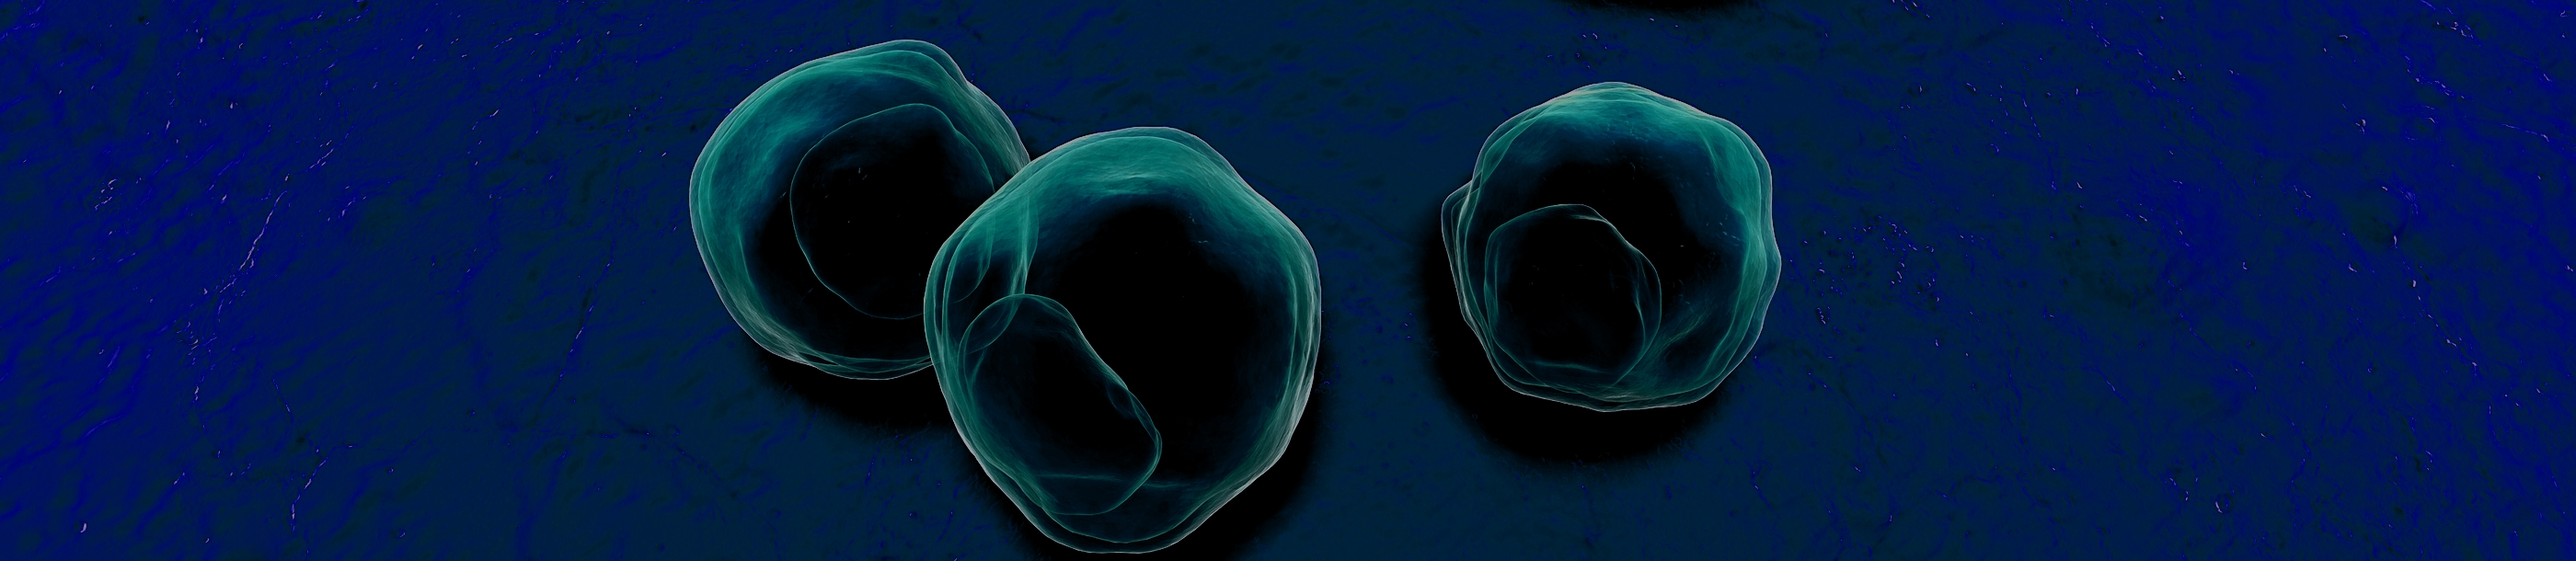
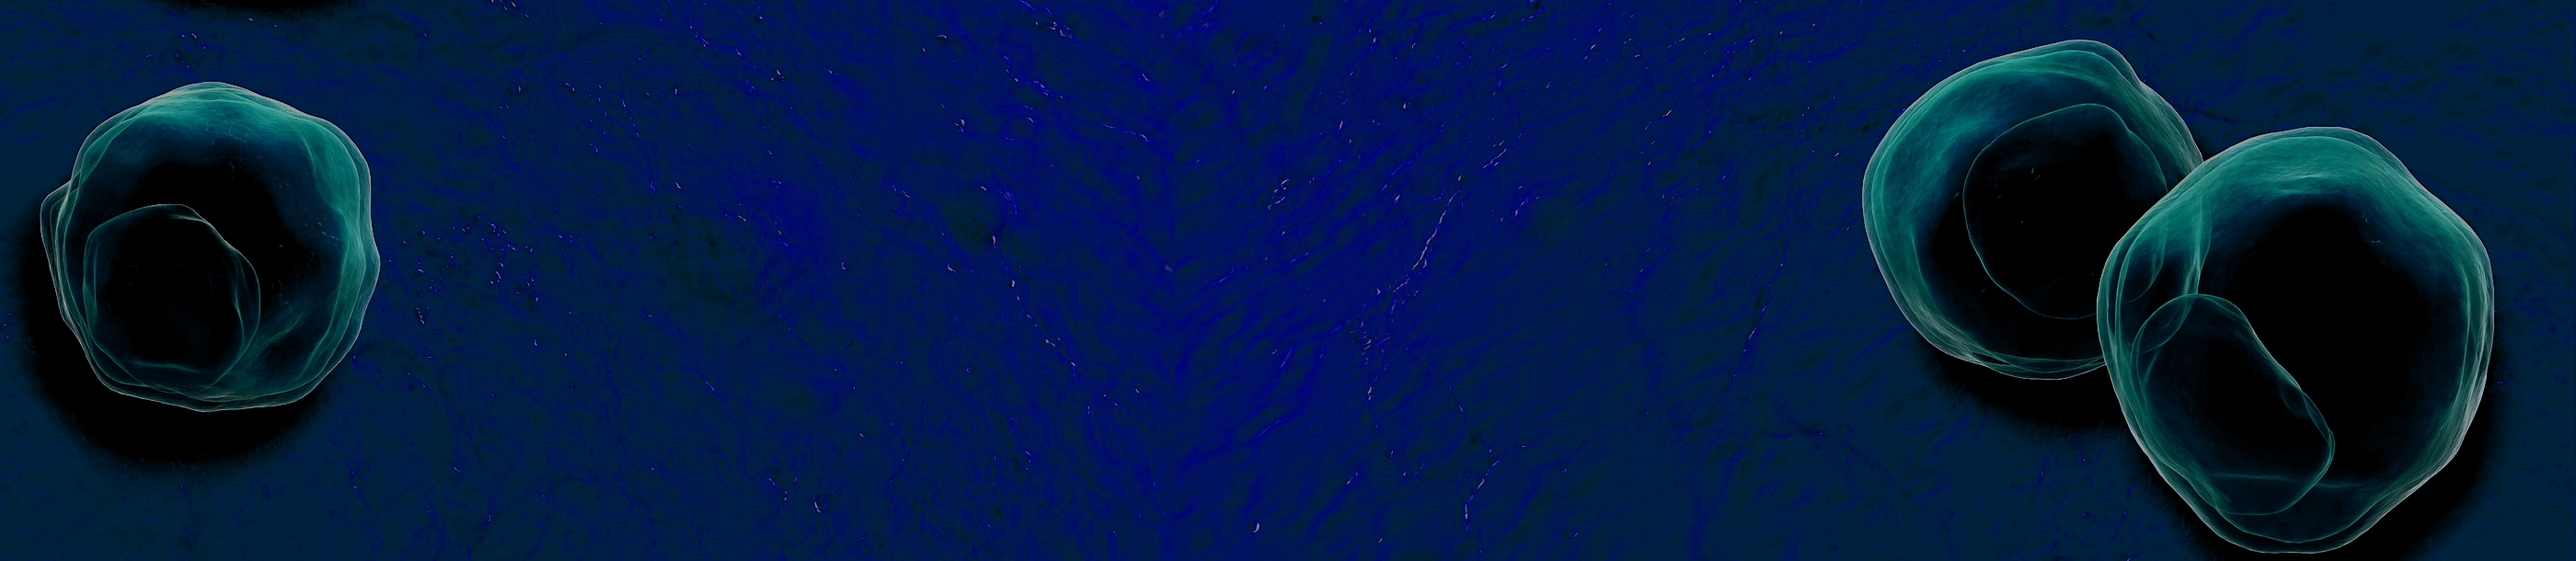
Cleanup
Fixed banner/gradient, removed padding from strain nodes, fixed typo in Ortholog(s), cleaned up code in ortholog module

diff --git a/wiki/static/wiki/js/app/annotations-view/ortholog-view/ortholog-view.component.js b/wiki/static/wiki/js/app/annotations-view/ortholog-view/ortholog-view.component.js
@@ -131,32 +131,7 @@ angular.module('orthologView').component('orthologView', {
                                         // all orthologs processed
                                         if (remaining == 0) {
 
-                                            // data to send to muscle
-                                            var content = {
-                                                email: "djow@ucsd.edu",
-                                                title: "ortholog alignment",
-                                                format: "fasta",
-                                                tree: "tree1",
-                                                order: "aligned",
-                                                sequence: data.join()
-                                            };
-
-                                            // submit post to MUSCLE using shorthand method in json
-                                            $http.post('http://www.ebi.ac.uk/Tools/services/rest/muscle/run/', content).then(function (success) {
-
-                                                // JOB ID for muscle
-                                                var id = success.data;
-                                                console.log("Job ID:" + id);
-
-                                                // now check the status of the request
-                                                $scope.checkId(id);
-
-                                                // there was an error with the POST request
-                                            }, function (error) {
-                                                console.log("Error" + error.status);
-                                                console.log(error);
-
-                                                // temporary display w/o alignment
+                                                // display w/o alignment
                                                 var seqs = msa.io.fasta.parse(data.join(""));
 
                                                 // the widget settings
@@ -169,7 +144,6 @@ angular.module('orthologView').component('orthologView', {
                                                 var m = new msa.msa(settings);
                                                 m.render();
 
-                                            }); // error }
                                             
                                         } // remaining }
                                     }); // efetch get }
@@ -189,45 +163,6 @@ angular.module('orthologView').component('orthologView', {
         }); // for each }
 
     }; // update panel function }
-
-    // used to constantly check the sequence status
-    $scope.checkId = function(id) {
-
-                                                
-        // check by using a GET request
-        $http.get('http://www.ebi.ac.uk/Tools/services/rest/muscle/status/' + id).then(function (response) {
-            console.log(response.data);
-
-            // check again if still running
-            if (response.data == "RUNNING") {
-                $scope.checkId(id);
-                return;
-            }
-
-            // display the data
-            if (response.data == "FINISHED") {
-
-                // the widget settings
-                var settings = {
-                    el: document.getElementById("msaDiv"),
-                };
-
-                // the msa viewing panel
-                var m = new msa.msa(settings);
-
-                // data has been aligned, now display it
-                msa.u.file.importURL("http://www.ebi.ac.uk/Tools/services/rest/muscle/result/" + id + "/aln-fasta",
-                function () {
-                    msa.render();
-                });
-
-                // there was a problem
-            } else {
-                console.log(response.data);
-            }
-        });
-
-    }; // check ID }
 
 
     }, // controller function }

diff --git a/wiki/static/wiki/css/landing_page.css b/wiki/static/wiki/css/landing_page.css
@@ -5,8 +5,8 @@ html, body {
 
 .main-landing-page {
     background: url("../img/c_banner.jpg") no-repeat top center,
-        radial-gradient(circle, #385d94, #1c2e4a);
-    background-size: 100% 200px;
+        /*radial-gradient(circle, #385d94, #1c2e4a)*/ linear-gradient(0, #385d94, #0c1e3a);
+    background-size: 100% 240px, contain;
     color: whitesmoke;
     border: solid #385d94 3px;
     text-align: center;
@@ -17,7 +17,7 @@ html, body {
 
 #get-started {
 
-    background-color: #1c2e4a;
+    background-color: #e68a00;
     color: rgb(255, 255, 255);
     transition: all 0.5s;
     font-size: 20px;

diff --git a/wiki/static/wiki/js/angular_templates/annotations-view.html b/wiki/static/wiki/js/angular_templates/annotations-view.html
@@ -41,7 +41,7 @@
     <div uib-accordion-group ng-class="{'panel-info': true}"
          template-url="group-template.html" is-open="$ctrl.accordion.ortholog">
         <uib-accordion-heading>
-            Otholog(s) <i class="pull-right glyphicon"
+            Ortholog(s) <i class="pull-right glyphicon"
                           ng-class="{'glyphicon-chevron-down': $ctrl.accordion.ortholog, 'glyphicon-chevron-right': !$ctrl.accordion.ortholog}"></i>
         </uib-accordion-heading>
         <div class="panel " style="border-bottom: solid #bce8f1 1px;">

diff --git a/wiki/static/wiki/js/angular_templates/organism-tree.html b/wiki/static/wiki/js/angular_templates/organism-tree.html
@@ -1,7 +1,7 @@
 <style>
     .google-visualization-orgchart-node {
-        border: solid #385d94 2px;
-        background: #385d94;
+        border: none;
+        background: none;
         -webkit-box-shadow: none;
     }
 
